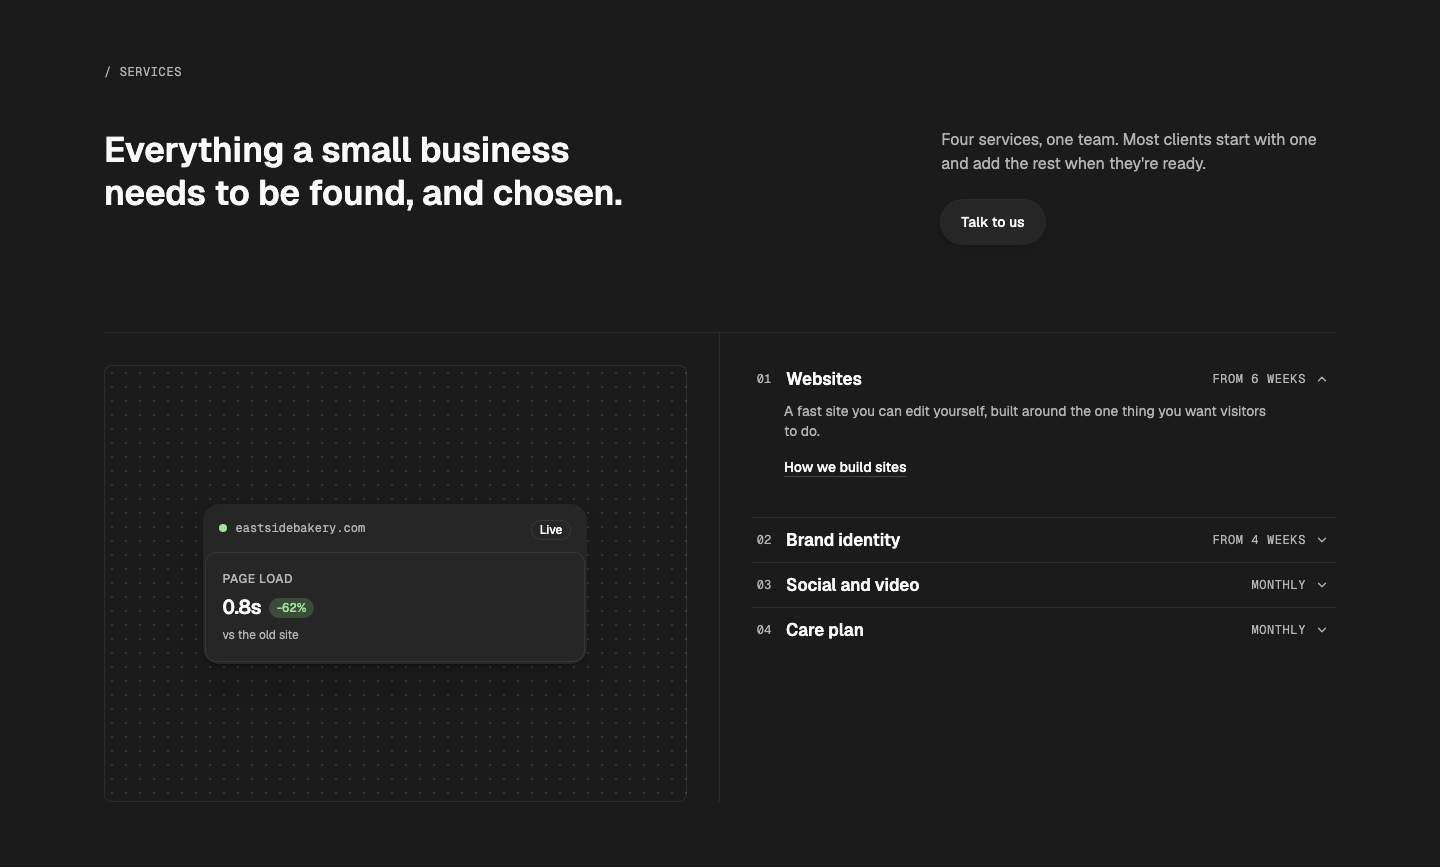
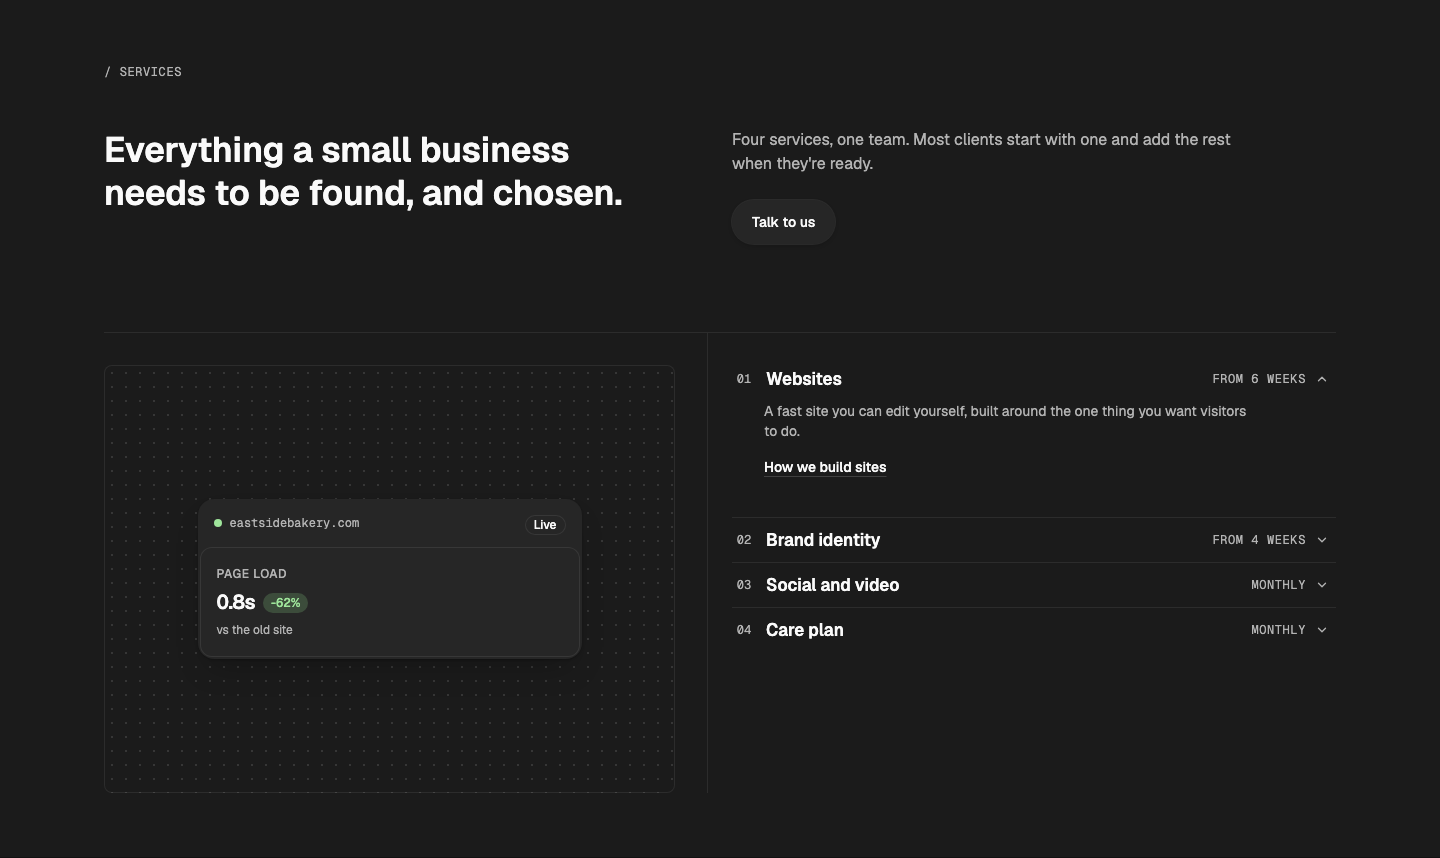
Services — Split Index: header on the page grid — heading over the frame's columns, intro + CTA start on the list's first column (was col-start-9, which overflowed the 8-column tablet grid); the split is a subgrid

diff --git a/patterns/services/split-index/ServicesSplitIndex.tsx b/patterns/services/split-index/ServicesSplitIndex.tsx
@@ -40,17 +40,18 @@ export interface ServicesSplitIndexProps {
 
 /** Full width; content on the WMDS page grid; section padding 48 / 64 top and bottom. */
 const gridClasses = "grid-page !pt-12 !pb-12 md:!pt-16 md:!pb-16";
-const headingClasses = "col-span-full mt-6 text-balance type-display-3 text-fg md:col-span-7";
-const introClasses = "col-span-full mt-4 flex flex-col items-start gap-6 md:col-span-4 md:col-start-9 md:mt-6";
-/** Two ruled cells: the frame's cell and the list's cell share the top rule and a centre rule. */
-const cellsClasses = "col-span-full mt-10 grid border-t border-border md:mt-16 md:grid-cols-2";
-const frameCellClasses = "hidden border-r border-border md:block md:pr-8 md:pt-8";
+/** Heading over the frame's columns; intro and CTA start on the list's first column, so the header lines up with the split below. */
+const headingClasses = "col-span-full mt-6 text-balance type-display-3 text-fg md:col-span-4 lg:col-span-6";
+const introClasses = "col-span-full mt-4 flex flex-col items-start gap-6 md:col-span-4 md:col-start-5 md:mt-6 lg:col-span-5 lg:col-start-7";
+/** Two ruled cells on the page grid (subgrid): the frame's half and the list's half share the top rule and a centre rule. */
+const cellsClasses = "col-span-full mt-10 grid border-t border-border md:mt-16 md:grid-cols-subgrid";
+const frameCellClasses = "hidden border-r border-border md:col-span-4 md:block md:pr-8 md:pt-8 lg:col-span-6";
 /** The frame stays in view while the list scrolls past it. */
 const frameClasses = cn(
   "sticky top-8 flex aspect-[4/3] items-center justify-center overflow-hidden rounded-lg border border-border p-8",
   backgroundPatternDotGridClasses,
 );
-const listCellClasses = "pt-2 md:pl-8 md:pt-6";
+const listCellClasses = "pt-2 md:col-span-4 md:pt-6 lg:col-span-6";
 const numberClasses = "font-mono text-xs tabular-nums text-muted";
 const titleClasses = "type-heading-3 text-fg";
 const metaClasses = "hidden font-mono text-xs uppercase tracking-wider text-muted sm:inline";
